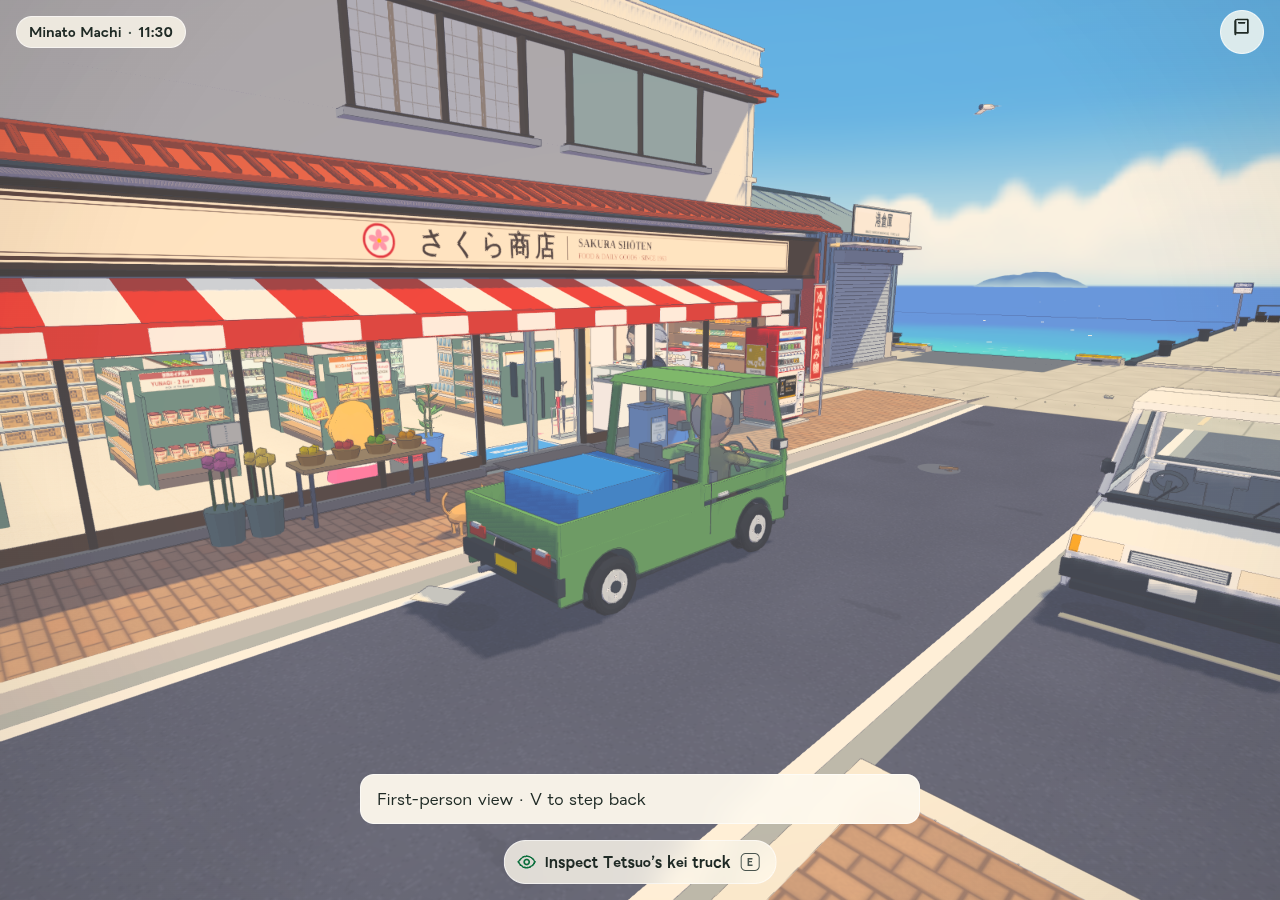
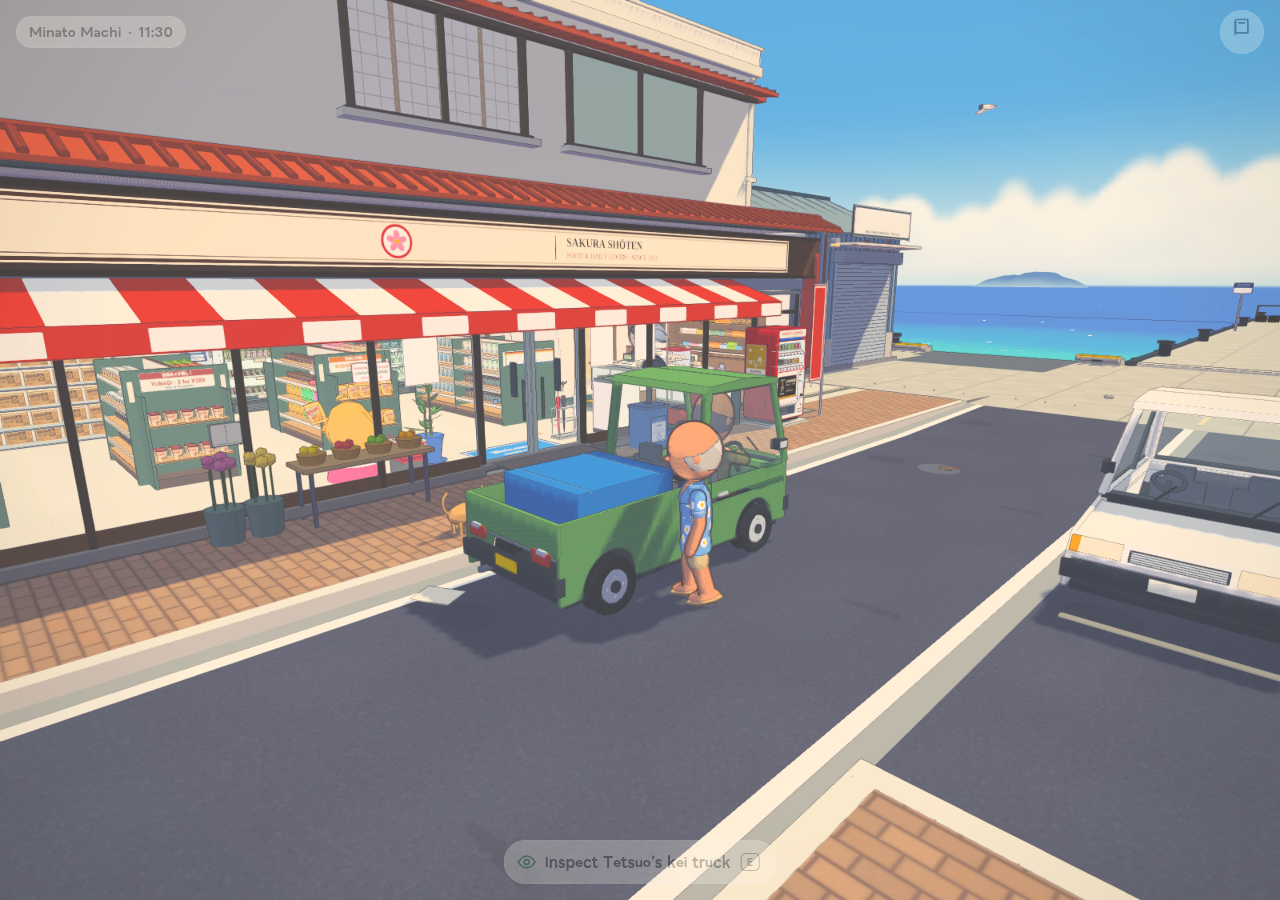
Sign off live car collision repair with third-person acceptance evidence

diff --git a/HANDOVER.md b/HANDOVER.md
@@ -15,7 +15,7 @@ The third city island is low priority and deferred until explicitly reprioritise
 
 | Work area | Current handover |
 | --- | --- |
-| World: moving car collisions | [24 October vehicle-collision repair](johansson-town/briefs/HANDOFF-VEHICLE-COLLISION-2026-10-24.md). Verified candidate: vehicle colliders follow driving/held/reversing/ferry poses, live dynamic spatial queries and no conversations with seated drivers. Full guard and compiled-game desktop/phone-width checks pass; publication pending. |
+| World: moving car collisions | [24 October vehicle-collision repair](johansson-town/briefs/HANDOFF-VEHICLE-COLLISION-2026-10-24.md). **Published to main as `e12ab3b`; live bytes verified.** 409/409 World guard, 28/28 focused/runtime checks, actual four-sided walking and overlap recovery pass. Moving/held/reversing/ferry car boundaries remain solid; seated drivers cannot be approached for conversations. Desktop and phone-width evidence included; no new Linux installer. |
 | World / Studio: Thuan CAD and shared game arms/hands/legs/feet | [24 October Thuan CAD](johansson-town/briefs/HANDOFF-THUAN-CAD-2026-10-24.md), updated **12:51 UTC**. **Revision A, amendment 1: design only; no new game mesh implemented.** Owner's arm/hip correction confirmed; shared limb proposal now covers all creator bodies. **Ten A3 sheets**, combined 1:1 proposal DXF (**16 native dimensions, zero audit errors/fixes**) and **20 captures: 17 baseline + three existing-model static candidates**. Candidate forearm/mitten clearance **26.099 mm per side** is static, not new-mesh or motion acceptance. Proposed ceiling **62 bones**, first 28 stable, ≤4 weights; canonical Thuan ≤22k primary triangles, other recipes ≤4,198 net extra over their own baseline. Current mesh remains **1637.9 mm** high; film 1600/poster 1490 separate. **27/27 artifact checks pass**, all ten sheets rendered without text overflow, package CRC/hashes verified and seven amended deliverables saved. Next: source-compatible shared game prototype on `development`, then full motion/device validation. |
 | World: realistic harbour noticeboard remake | [24 October noticeboard design](johansson-town/briefs/HANDOFF-NOTICEBOARD-DESIGN-2026-10-24.md). **Revision A drawing package delivered; game replacement not yet implemented.** Four A3 sheets, 1:1 DXF, measured frame/hood/glazing/supports, corrected Sakura hours and retired bus-stop copy. Existing woodland artwork/Look viewer preserved by specification. Drawing checks 17/17; independent dimension review and rendered-sheet inspection complete. Next: prototype on `development`. |
 | World: bench beside the harbour notice board and ferry-office door hood | [24 October frontage correction](johansson-town/briefs/HANDOFF-FERRY-OFFICE-FRONTAGE-2026-10-24.md). Earlier unreferenced review never reached live main. **Published and verified** as [`580de3c1`](https://github.com/nj22az/nj22az.github.io/commit/580de3c1ed4f12c3e2f962dd49370435bf4256cb). Bench and door hood removed; newer woodland poster/board/viewer and old-save compatibility preserved. Local World guard **400/400**, extra checks **20/20**, six real-game views and poster open/close pass. GitHub guard and Pages passed; **54/54 live files** match. Signed off. |

diff --git a/johansson-town/briefs/HANDOFF-VEHICLE-COLLISION-2026-10-24.md b/johansson-town/briefs/HANDOFF-VEHICLE-COLLISION-2026-10-24.md
@@ -9,8 +9,10 @@ Departing vehicles moved their pedestrian collider off-map until parking again. 
 ## Evidence
 Nine new regression checks cover all four sides, rotations, forward/reverse/held states, old-bay clearance, visibility, elevated deck bounds, live spatial cells, Tetsuo’s real departure and driver prompt/click gating. The full World guard and the production-runtime check passed. Actual compiled-game acceptance walks the player into each side of the held truck, checks the moving boundary and old-overlap recovery, and captures desktop and phone-width views. See [QA evidence](../docs/qa/vehicle-collision-2026-10-24/report.json), focused.txt and guard.txt in that folder.
 
-## Publication state
-Verified candidate, not yet promoted to main. Validation workflow 40098829273. Main must be fast-forwarded only after reviewing screenshots and checking its current head; preserve concurrent unrelated changes. This candidate is retained by a review tag, not a new branch. No physical iPhone/Safari, packaged Linux or live GPS test was performed.
+## Publication state — published and verified
+Implementation `e12ab3b4042a14e74bad463f6fca4b0c25007425` was fast-forwarded to main after reviewing the compiled-game evidence. The complete World guard passed **409/409 checks across 77 files**; the focused suite plus runtime packaging passed **28/28**. All nine new regression checks failed against the original source before the repair. The compiled-game acceptance passes all four walking approaches, a moving vehicle, driver prompt exclusion and safe recovery from an existing overlap; no page errors. Third-person desktop and phone-width photographs were recaptured without changing any production source or runtime file.
 
-## Next action
-Review screenshots, promote this checked candidate to main, verify Pages deployment, then remove the temporary validation transport files from development. Do not merge the development prototype branch.
+[Publication evidence](../docs/qa/vehicle-collision-2026-10-24/publication.json) verifies the public HTML, service worker, manifest, source fingerprint and changed compiled entry/chunks byte-for-byte against the tested implementation. [Game report](../docs/qa/vehicle-collision-2026-10-24/report.json). Original build/guard workflow: 40098829273. Publication verification workflow: 40099838159.
+
+## Limits and next action
+No physical iPhone/Safari or packaged Linux test was performed. Existing web tabs must reload; saves are preserved. The shared source is repaired, but no new Linux installer was released. The temporary development transport/workflow files are removed after successful sign-off; the prototype branch is not merged. No implementation work remains for this defect.
